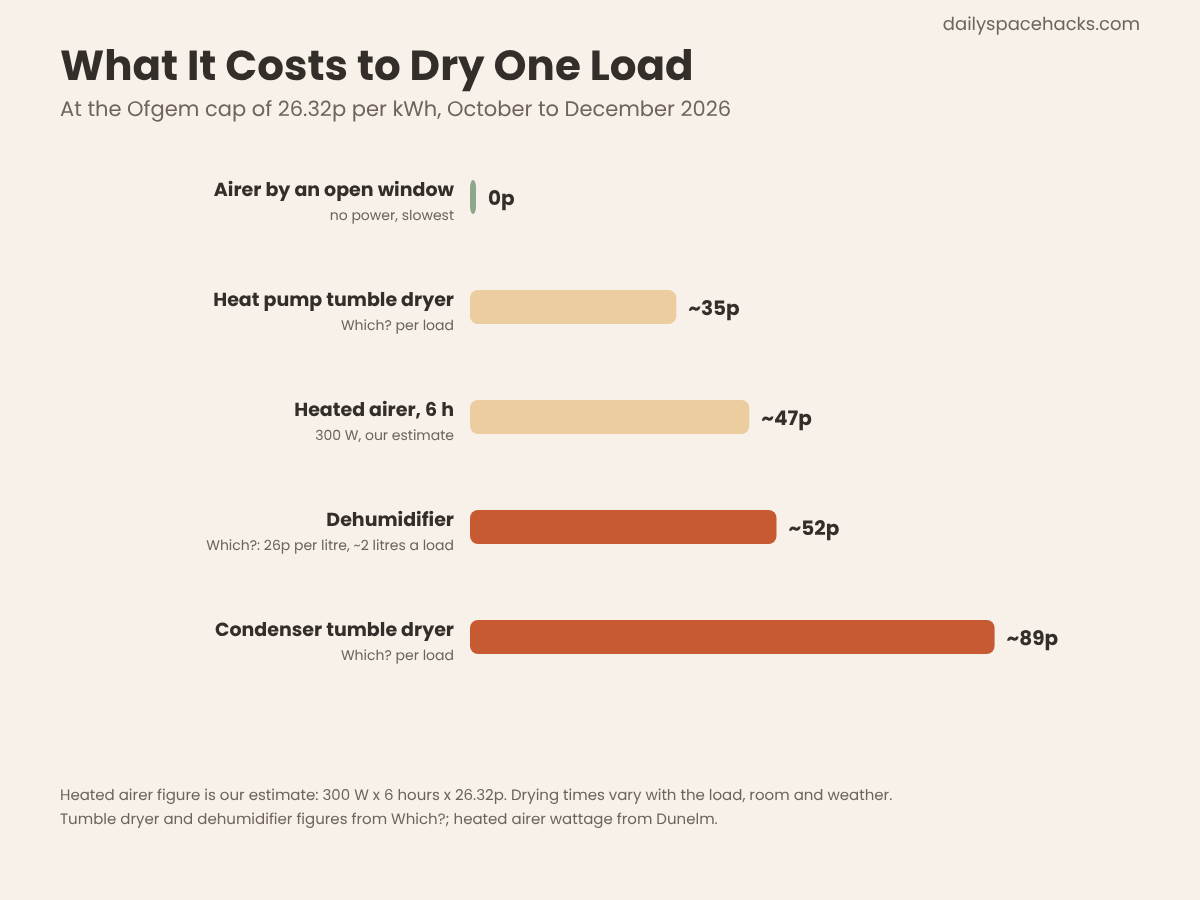
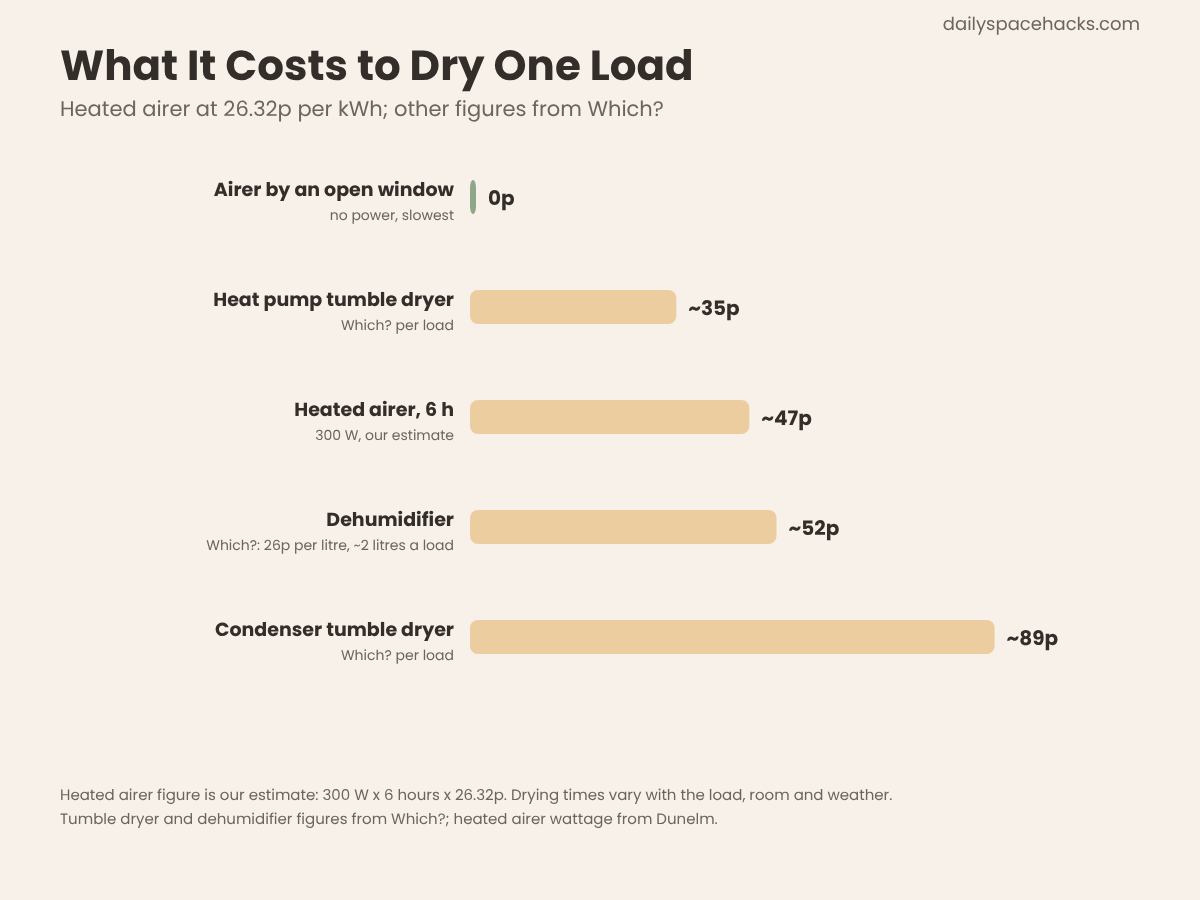
drying: fact-check fixes

Changed region(s): [[0.37, 0.6844, 0.8325, 0.7467], [0.0308, 0.0933, 0.6167, 0.1556], [0.37, 0.56, 0.6475, 0.6222]]

diff --git a/tools/drying/content.html b/tools/drying/content.html
@@ -1,9 +1,9 @@
 <!-- wp:paragraph -->
-<p>To dry clothes indoors without damp, spin them as fast as your machine allows, hang them on an airer in a small room with the door shut and a window slightly open or the extractor fan on, and keep them off the radiators. A dehumidifier or a heated airer speeds things up when the weather is cold and wet. Done this way, a load can dry overnight without fogging up the windows.</p>
+<p>To dry clothes indoors without damp, spin them as fast as your machine allows, hang them on an airer in a small room with the door shut and a window slightly open or the extractor fan on, and keep them off the radiators. A dehumidifier or a heated airer speeds things up when the weather is cold and wet. Done this way, you keep condensation and mould to a minimum.</p>
 <!-- /wp:paragraph -->
 
 <!-- wp:paragraph -->
-<p>The reason it matters is the water. Research from the Mackintosh School of Architecture found that <a href="https://gsamediacentre.co.uk/research-highlights-health-and-economic/" target="_blank" rel="noopener">the average load of washing will release around 2 litres of moisture</a> into your home, and that drying on radiators in a poorly ventilated room can account for up to a third of the moisture in the air. Here is how to keep that water out of your walls.</p>
+<p>The reason it matters is the water. Research from the Mackintosh School of Architecture found that <a href="https://gsamediacentre.co.uk/research-highlights-health-and-economic/" target="_blank" rel="noopener">the average load of washing will release around 2 litres of moisture</a> into your home, and that drying on airers by radiators in a poorly ventilated room can account for up to a third of the moisture in the air. Here is how to keep that water out of your walls.</p>
 <!-- /wp:paragraph -->
 
 <!-- wp:image {"id":0,"sizeSlug":"full","linkDestination":"none"} -->
@@ -15,7 +15,7 @@
 <!-- /wp:heading -->
 
 <!-- wp:paragraph -->
-<p>The less water you start with, the faster clothes dry. Groundwork, an environmental charity, advises you to <a href="https://www.groundwork.org.uk/resources/drying-your-clothes/" target="_blank" rel="noopener">use the highest spin cycle you can</a>. Manufacturer data reported by Whitegoods Help suggests a 6 kg cotton load spun at 1,400 rpm keeps about 49% of its moisture, against about 55% at 1,000 rpm. Check the care labels for delicates, but for towels, sheets and cottons, use the fastest spin.</p>
+<p>The less water you start with, the faster clothes dry. Groundwork, an environmental charity, advises you to <a href="https://www.groundwork.org.uk/resources/drying-your-clothes/" target="_blank" rel="noopener">use the highest spin cycle you can</a>. Manufacturer data reported by Whitegoods Help suggests a 6 kg cotton load spun at 1,400 rpm keeps about 49% of its moisture, against about 55% at 1,000 rpm, though figures vary between machines. Check the care labels for delicates, but for towels, sheets and cottons, use the fastest spin.</p>
 <!-- /wp:paragraph -->
 
 <!-- wp:heading -->
@@ -23,7 +23,7 @@
 <!-- /wp:heading -->
 
 <!-- wp:paragraph -->
-<p>Dry washing in one room and shut the door, so the moist air does not spread through the house. Leeds City Council suggests you <a href="https://leeds.gov.uk/housing/council-housing-information-for-tenants/damp-mould-and-condensation" target="_blank" rel="noopener">leave a window opened slightly and close the door</a>, and Tandridge District Council suggests using an airer in the bathroom with the door closed. A bathroom or utility room with an extractor fan is ideal; Ashfield District Council says to dry clothes with <a href="https://www.ashfield.gov.uk/media/s0jfhksl/a-tenants-guide-to-damp-condensation-and-mould.pdf" target="_blank" rel="noopener">the extractor fan on or window slightly open</a>. Avoid bedrooms, where you breathe the damp air all night. If you have a utility room, our <a href="https://dailyspacehacks.com/small-utility-room-ideas/">small utility room ideas</a> show how to fit a drying rack in.</p>
+<p>Dry washing in one room and shut the door, so the moist air does not spread through the house. Leeds City Council suggests you <a href="https://leeds.gov.uk/housing/council-housing-information-for-tenants/damp-mould-and-condensation" target="_blank" rel="noopener">leave a window opened slightly and close the door</a>, and Tandridge District Council suggests using an airer in the bathroom with the door closed. A bathroom or utility room with an extractor fan is ideal; Ashfield District Council says to dry clothes with <a href="https://www.ashfield.gov.uk/media/s0jfhksl/a-tenants-guide-to-damp-condensation-and-mould.pdf" target="_blank" rel="noopener">the extractor fan on or window slightly open</a>. Avoid drying washing in bedrooms. If you have a utility room, our <a href="https://dailyspacehacks.com/small-utility-room-ideas/">small utility room ideas</a> show how to fit a drying rack in.</p>
 <!-- /wp:paragraph -->
 
 <!-- wp:heading -->
@@ -35,7 +35,7 @@
 <!-- /wp:image -->
 
 <!-- wp:paragraph -->
-<p>It is tempting to drape clothes over a warm radiator, but South Kesteven District Council's advice is simple: <a href="https://www.southkesteven.gov.uk/housing/damp-mould-and-condensation-advice/how-can-i-reduce-damp-and-mould" target="_blank" rel="noopener">do not dry clothes on radiators</a>. Covered radiators heat the room less well, so the heating works harder. Never put clothes on a portable heater either; Shropshire Fire and Rescue warns that <a href="https://www.shropshirefire.gov.uk/news/portable-heaters-fire-warning/" target="_blank" rel="noopener">drying clothes on a portable heater is a fire hazard</a>. A freestanding airer placed near, but not touching, a radiator is a safer middle ground.</p>
+<p>It is tempting to drape clothes over a warm radiator, but South Kesteven District Council's advice is simple: <a href="https://www.southkesteven.gov.uk/housing/damp-mould-and-condensation-advice/how-can-i-reduce-damp-and-mould" target="_blank" rel="noopener">do not dry clothes on radiators</a>. Groundwork says drying clothes on a radiator blocks airflow, so it takes more energy to heat the room. Never put clothes on a portable heater either; Shropshire Fire and Rescue says of portable heaters: <a href="https://www.shropshirefire.gov.uk/news/portable-heaters-fire-warning/" target="_blank" rel="noopener">don't dry clothes on them</a>. Use a freestanding airer instead, and keep it clear of the radiator.</p>
 <!-- /wp:paragraph -->
 
 <!-- wp:heading -->
@@ -63,15 +63,15 @@
 <!-- /wp:image -->
 
 <!-- wp:paragraph -->
-<p>In winter, a little power can make a big difference. A dehumidifier pulls water out of the air as the clothes dry; Which? found it roughly halves drying time and costs on average <a href="https://www.which.co.uk/news/article/can-you-use-a-dehumidifier-to-dry-laundry-aX79m5I0XFVm" target="_blank" rel="noopener">26p per litre of water extracted</a>, so about 52p for a load that releases 2 litres. Many models have a laundry mode, such as Meaco's 12-litre compressor dehumidifier, which uses <a href="https://www.meaco.com/products/meaco-12l-low-energy-dehumidifier-and-air-purifier" target="_blank" rel="noopener">157W</a>. A heated airer is the other option: Dunelm's three-tier model is <a href="https://www.dunelm.com/product/3-tier-heated-airer-1000292620" target="_blank" rel="noopener">300W</a>, so six hours at the Ofgem price cap of <a href="https://ofgem.gov.uk/news/changes-energy-price-cap-between-1-october-and-31-december-2026" target="_blank" rel="noopener">26.32 pence per kilowatt hour</a> costs about 47p by our estimate.</p>
+<p>In cold, damp weather, a small appliance can speed up drying. A dehumidifier pulls water out of the air as the clothes dry; Which? found it almost halved drying time in its test and costs on average <a href="https://www.which.co.uk/news/article/can-you-use-a-dehumidifier-to-dry-laundry-aX79m5I0XFVm" target="_blank" rel="noopener">26p per litre of water extracted</a>, so about 52p for a load that releases 2 litres. Many models have a laundry mode, such as Meaco's 12-litre compressor dehumidifier, which uses <a href="https://www.meaco.com/products/meaco-12l-low-energy-dehumidifier-and-air-purifier" target="_blank" rel="noopener">157W</a>. A heated airer is the other option: Dunelm's three-tier model is <a href="https://www.dunelm.com/product/3-tier-heated-airer-1000292620" target="_blank" rel="noopener">300W</a>, so six hours at the Ofgem price cap of <a href="https://ofgem.gov.uk/news/changes-energy-price-cap-between-1-october-and-31-december-2026" target="_blank" rel="noopener">26.32 pence per kilowatt hour</a> costs about 47p by our estimate.</p>
 <!-- /wp:paragraph -->
 
 <!-- wp:html -->
-<figure class="dsh-diagram"><svg xmlns="http://www.w3.org/2000/svg" viewBox="0 0 1200 900" font-family="Poppins, sans-serif" role="img" aria-labelledby="dr-t dr-d"><title id="dr-t">Cost to dry one load indoors</title><desc id="dr-d">Estimated cost to dry one load of washing indoors at the Ofgem price cap of 26.32p per kWh (October to December 2026). Airer by an open window: about 0p; Heat pump tumble dryer: about 35p; Heated airer, 6 h: about 47p; Dehumidifier: about 52p; Condenser tumble dryer: about 89p. The heated airer cost is our estimate from its wattage and 6 hours; tumble dryer and dehumidifier costs are Which? figures.</desc><rect width="1200" height="900" fill="#F7F1E9"/><text x="60" y="80" font-size="42" font-weight="700" fill="#342E2A">What It Costs to Dry One Load</text><text x="60" y="116" font-size="21" fill="#6E645C">At the Ofgem cap of 26.32p per kWh, October to December 2026</text><text x="1140" y="30" font-size="18" fill="#6E645C" text-anchor="end">dailyspacehacks.com</text><text x="454" y="196" font-size="19" font-weight="700" fill="#342E2A" text-anchor="end">Airer by an open window</text><text x="454" y="220" font-size="14" fill="#6E645C" text-anchor="end">no power, slowest</text><rect x="470" y="180" width="6.0" height="34" rx="8" fill="#8FA689"/><text x="488.0" y="205" font-size="20" font-weight="700" fill="#342E2A">0p</text><text x="454" y="306" font-size="19" font-weight="700" fill="#342E2A" text-anchor="end">Heat pump tumble dryer</text><text x="454" y="330" font-size="14" fill="#6E645C" text-anchor="end">Which? per load</text><rect x="470" y="290" width="206.3" height="34" rx="8" fill="#ECCDA0"/><text x="688.3" y="315" font-size="20" font-weight="700" fill="#342E2A">~35p</text><text x="454" y="416" font-size="19" font-weight="700" fill="#342E2A" text-anchor="end">Heated airer, 6 h</text><text x="454" y="440" font-size="14" fill="#6E645C" text-anchor="end">300 W, our estimate</text><rect x="470" y="400" width="279.3" height="34" rx="8" fill="#ECCDA0"/><text x="761.3" y="425" font-size="20" font-weight="700" fill="#342E2A">~47p</text><text x="454" y="526" font-size="19" font-weight="700" fill="#342E2A" text-anchor="end">Dehumidifier</text><text x="454" y="550" font-size="14" fill="#6E645C" text-anchor="end">Which?: 26p per litre, ~2 litres a load</text><rect x="470" y="510" width="306.5" height="34" rx="8" fill="#C85A32"/><text x="788.5" y="535" font-size="20" font-weight="700" fill="#342E2A">~52p</text><text x="454" y="636" font-size="19" font-weight="700" fill="#342E2A" text-anchor="end">Condenser tumble dryer</text><text x="454" y="660" font-size="14" fill="#6E645C" text-anchor="end">Which? per load</text><rect x="470" y="620" width="524.6" height="34" rx="8" fill="#C85A32"/><text x="1006.6" y="645" font-size="20" font-weight="700" fill="#342E2A">~89p</text><text x="60" y="800" font-size="15" fill="#6E645C">Heated airer figure is our estimate: 300 W x 6 hours x 26.32p. Drying times vary with the load, room and weather.</text><text x="60" y="824" font-size="15" fill="#6E645C">Tumble dryer and dehumidifier figures from Which?; heated airer wattage from Dunelm.</text></svg><figcaption>Estimated cost to dry one load indoors at 26.32p per kWh: from nothing on an airer by an open window to about 89p in a condenser tumble dryer.</figcaption></figure>
+<figure class="dsh-diagram"><svg xmlns="http://www.w3.org/2000/svg" viewBox="0 0 1200 900" font-family="Poppins, sans-serif" role="img" aria-labelledby="dr-t dr-d"><title id="dr-t">Cost to dry one load indoors</title><desc id="dr-d">Estimated cost to dry one load of washing indoors. Airer by an open window: about 0p; Heat pump tumble dryer: about 35p; Heated airer, 6 h: about 47p; Dehumidifier: about 52p; Condenser tumble dryer: about 89p. The heated airer cost is our estimate from its wattage and 6 hours; tumble dryer and dehumidifier costs are Which? figures.</desc><rect width="1200" height="900" fill="#F7F1E9"/><text x="60" y="80" font-size="42" font-weight="700" fill="#342E2A">What It Costs to Dry One Load</text><text x="60" y="116" font-size="21" fill="#6E645C">Heated airer at 26.32p per kWh; other figures from Which?</text><text x="1140" y="30" font-size="18" fill="#6E645C" text-anchor="end">dailyspacehacks.com</text><text x="454" y="196" font-size="19" font-weight="700" fill="#342E2A" text-anchor="end">Airer by an open window</text><text x="454" y="220" font-size="14" fill="#6E645C" text-anchor="end">no power, slowest</text><rect x="470" y="180" width="6.0" height="34" rx="8" fill="#8FA689"/><text x="488.0" y="205" font-size="20" font-weight="700" fill="#342E2A">0p</text><text x="454" y="306" font-size="19" font-weight="700" fill="#342E2A" text-anchor="end">Heat pump tumble dryer</text><text x="454" y="330" font-size="14" fill="#6E645C" text-anchor="end">Which? per load</text><rect x="470" y="290" width="206.3" height="34" rx="8" fill="#ECCDA0"/><text x="688.3" y="315" font-size="20" font-weight="700" fill="#342E2A">~35p</text><text x="454" y="416" font-size="19" font-weight="700" fill="#342E2A" text-anchor="end">Heated airer, 6 h</text><text x="454" y="440" font-size="14" fill="#6E645C" text-anchor="end">300 W, our estimate</text><rect x="470" y="400" width="279.3" height="34" rx="8" fill="#ECCDA0"/><text x="761.3" y="425" font-size="20" font-weight="700" fill="#342E2A">~47p</text><text x="454" y="526" font-size="19" font-weight="700" fill="#342E2A" text-anchor="end">Dehumidifier</text><text x="454" y="550" font-size="14" fill="#6E645C" text-anchor="end">Which?: 26p per litre, ~2 litres a load</text><rect x="470" y="510" width="306.5" height="34" rx="8" fill="#ECCDA0"/><text x="788.5" y="535" font-size="20" font-weight="700" fill="#342E2A">~52p</text><text x="454" y="636" font-size="19" font-weight="700" fill="#342E2A" text-anchor="end">Condenser tumble dryer</text><text x="454" y="660" font-size="14" fill="#6E645C" text-anchor="end">Which? per load</text><rect x="470" y="620" width="524.6" height="34" rx="8" fill="#ECCDA0"/><text x="1006.6" y="645" font-size="20" font-weight="700" fill="#342E2A">~89p</text><text x="60" y="800" font-size="15" fill="#6E645C">Heated airer figure is our estimate: 300 W x 6 hours x 26.32p. Drying times vary with the load, room and weather.</text><text x="60" y="824" font-size="15" fill="#6E645C">Tumble dryer and dehumidifier figures from Which?; heated airer wattage from Dunelm.</text></svg><figcaption>Estimated cost to dry one load indoors: from nothing on an airer by an open window to about 89p in a condenser tumble dryer.</figcaption></figure>
 <!-- /wp:html -->
 
 <!-- wp:paragraph -->
-<p>As the chart shows, a heat pump tumble dryer is cheaper per load than either. Which? says a dehumidifier <a href="https://www.which.co.uk/news/article/can-you-use-a-dehumidifier-to-dry-laundry-aX79m5I0XFVm" target="_blank" rel="noopener">would still cost more and take longer</a> than the cheapest tumble dryers. If you are choosing a dryer, our <a href="https://dailyspacehacks.com/heat-pump-vs-condenser-dryer/">heat pump vs condenser dryer guide</a> compares running costs.</p>
+<p>As the chart shows, a heat pump tumble dryer, at about 35p a load according to Which?, is cheaper than either the heated airer or the dehumidifier. Which? says a dehumidifier <a href="https://www.which.co.uk/news/article/can-you-use-a-dehumidifier-to-dry-laundry-aX79m5I0XFVm" target="_blank" rel="noopener">would still cost more and take longer</a> than the cheapest tumble dryers. If you are choosing a dryer, our <a href="https://dailyspacehacks.com/heat-pump-vs-condenser-dryer/">heat pump vs condenser dryer guide</a> compares running costs.</p>
 <!-- /wp:paragraph -->
 
 <!-- wp:heading -->
@@ -87,7 +87,7 @@
 <!-- /wp:heading -->
 
 <!-- wp:paragraph -->
-<p>Damp caused by a building fault is your landlord's job to fix, but tenants are expected to ventilate. In England, Awaab's Law has set deadlines for social landlords to deal with damp and mould since October 2025, though Elmbridge Borough Council notes it <a href="https://www.elmbridge.gov.uk/housing/damp-condensation-and-mould/awaabs-law-guidance-tenants" target="_blank" rel="noopener">only applies to social housing tenants</a>, not private renters. Keep a record of any damp, and report it in writing.</p>
+<p>Damp caused by a building fault is your landlord's job to fix, and ventilating well helps prevent condensation. In England, Awaab's Law has set deadlines for social landlords to deal with damp and mould since October 2025, though Elmbridge Borough Council notes it <a href="https://www.elmbridge.gov.uk/housing/damp-condensation-and-mould/awaabs-law-guidance-tenants" target="_blank" rel="noopener">only applies to social housing tenants</a>, not private renters. Keep a record of any damp, and report it in writing.</p>
 <!-- /wp:paragraph -->
 
 <!-- wp:heading -->
@@ -115,7 +115,7 @@
 <!-- /wp:heading -->
 
 <!-- wp:paragraph -->
-<p>It is best not to. Councils advise against it because it adds moisture to the room and stops the radiator heating the room properly. Use an airer near the radiator instead, and never put clothes on a portable heater, which fire services warn is a fire hazard.</p>
+<p>It is best not to. Councils advise against it, and Groundwork says it blocks the heat, so heating the room takes more energy. Use an airer near the radiator instead, and never put clothes on a portable heater, which Shropshire Fire and Rescue warns against.</p>
 <!-- /wp:paragraph -->
 
 <!-- wp:paragraph {"className":"dsh-ai-note","fontSize":"small"} -->

diff --git a/tools/drying/build.py b/tools/drying/build.py
@@ -24,19 +24,19 @@ def SR(k,t): return ext(SRC[k],t)
 P=26.32
 airer=round(0.3*6*P)
 
-p(f"To dry clothes indoors without damp, spin them as fast as your machine allows, hang them on an airer in a small room with the door shut and a window slightly open or the extractor fan on, and keep them off the radiators. A dehumidifier or a heated airer speeds things up when the weather is cold and wet. Done this way, a load can dry overnight without fogging up the windows.")
-p(f"The reason it matters is the water. Research from the Mackintosh School of Architecture found that {SR('gsa1','the average load of washing will release around 2 litres of moisture')} into your home, and that drying on radiators in a poorly ventilated room can account for up to a third of the moisture in the air. Here is how to keep that water out of your walls.")
+p(f"To dry clothes indoors without damp, spin them as fast as your machine allows, hang them on an airer in a small room with the door shut and a window slightly open or the extractor fan on, and keep them off the radiators. A dehumidifier or a heated airer speeds things up when the weather is cold and wet. Done this way, you keep condensation and mould to a minimum.")
+p(f"The reason it matters is the water. Research from the Mackintosh School of Architecture found that {SR('gsa1','the average load of washing will release around 2 litres of moisture')} into your home, and that drying on airers by radiators in a poorly ventilated room can account for up to a third of the moisture in the air. Here is how to keep that water out of your walls.")
 img(1)
 
 h2("Step 1: Spin It Fast")
-p(f"The less water you start with, the faster clothes dry. Groundwork, an environmental charity, advises you to {SR('gw','use the highest spin cycle you can')}. Manufacturer data reported by Whitegoods Help suggests a 6 kg cotton load spun at 1,400 rpm keeps about 49% of its moisture, against about 55% at 1,000 rpm. Check the care labels for delicates, but for towels, sheets and cottons, use the fastest spin.")
+p(f"The less water you start with, the faster clothes dry. Groundwork, an environmental charity, advises you to {SR('gw','use the highest spin cycle you can')}. Manufacturer data reported by Whitegoods Help suggests a 6 kg cotton load spun at 1,400 rpm keeps about 49% of its moisture, against about 55% at 1,000 rpm, though figures vary between machines. Check the care labels for delicates, but for towels, sheets and cottons, use the fastest spin.")
 
 h2("Step 2: Pick the Right Room")
-p(f"Dry washing in one room and shut the door, so the moist air does not spread through the house. Leeds City Council suggests you {SR('leeds','leave a window opened slightly and close the door')}, and Tandridge District Council suggests using an airer in the bathroom with the door closed. A bathroom or utility room with an extractor fan is ideal; Ashfield District Council says to dry clothes with {SR('ash','the extractor fan on or window slightly open')}. Avoid bedrooms, where you breathe the damp air all night. If you have a utility room, our {a('small-utility-room-ideas','small utility room ideas')} show how to fit a drying rack in.")
+p(f"Dry washing in one room and shut the door, so the moist air does not spread through the house. Leeds City Council suggests you {SR('leeds','leave a window opened slightly and close the door')}, and Tandridge District Council suggests using an airer in the bathroom with the door closed. A bathroom or utility room with an extractor fan is ideal; Ashfield District Council says to dry clothes with {SR('ash','the extractor fan on or window slightly open')}. Avoid drying washing in bedrooms. If you have a utility room, our {a('small-utility-room-ideas','small utility room ideas')} show how to fit a drying rack in.")
 
 h2("Step 3: Use an Airer, Not the Radiator")
 img(2)
-p(f"It is tempting to drape clothes over a warm radiator, but South Kesteven District Council's advice is simple: {SR('skdc','do not dry clothes on radiators')}. Covered radiators heat the room less well, so the heating works harder. Never put clothes on a portable heater either; Shropshire Fire and Rescue warns that {SR('shrop','drying clothes on a portable heater is a fire hazard')}. A freestanding airer placed near, but not touching, a radiator is a safer middle ground.")
+p(f"It is tempting to drape clothes over a warm radiator, but South Kesteven District Council's advice is simple: {SR('skdc','do not dry clothes on radiators')}. Groundwork says drying clothes on a radiator blocks airflow, so it takes more energy to heat the room. Never put clothes on a portable heater either; Shropshire Fire and Rescue says of portable heaters: {SR('shrop','don\'t dry clothes on them')}. Use a freestanding airer instead, and keep it clear of the radiator.")
 
 h2("Step 4: Give Clothes Space")
 p(f"Air needs to move around each item. Hang shirts and dresses on hangers from the airer's top rail, fold towels over a single bar rather than double, and leave a gap between items. If floor space is tight, a ceiling pulley airer lifts the washing out of the way; Lakeland's Lofti model gives {SR('lofti','up to 6.7 metres of drying room')}. Our {a('airing-cupboard-shelves','airing cupboard shelves')} guide covers finishing items off in a warm cupboard.")
@@ -46,15 +46,15 @@ p(f"Ventilation is what stops the moisture settling as condensation. NHS Healthi
 
 h2("Step 6: Speed It Up When It Is Cold")
 img(3)
-p(f"In winter, a little power can make a big difference. A dehumidifier pulls water out of the air as the clothes dry; Which? found it roughly halves drying time and costs on average {SR('which','26p per litre of water extracted')}, so about 52p for a load that releases 2 litres. Many models have a laundry mode, such as Meaco's 12-litre compressor dehumidifier, which uses {SR('meaco','157W')}. A heated airer is the other option: Dunelm's three-tier model is {SR('dun','300W')}, so six hours at the Ofgem price cap of {SR('ofgem','26.32 pence per kilowatt hour')} costs about {airer}p by our estimate.")
-diagram(open('z.svg').read(),f"Estimated cost to dry one load indoors at 26.32p per kWh: from nothing on an airer by an open window to about 89p in a condenser tumble dryer.")
-p(f"As the chart shows, a heat pump tumble dryer is cheaper per load than either. Which? says a dehumidifier {SR('which','would still cost more and take longer')} than the cheapest tumble dryers. If you are choosing a dryer, our {a('heat-pump-vs-condenser-dryer','heat pump vs condenser dryer guide')} compares running costs.")
+p(f"In cold, damp weather, a small appliance can speed up drying. A dehumidifier pulls water out of the air as the clothes dry; Which? found it almost halved drying time in its test and costs on average {SR('which','26p per litre of water extracted')}, so about 52p for a load that releases 2 litres. Many models have a laundry mode, such as Meaco's 12-litre compressor dehumidifier, which uses {SR('meaco','157W')}. A heated airer is the other option: Dunelm's three-tier model is {SR('dun','300W')}, so six hours at the Ofgem price cap of {SR('ofgem','26.32 pence per kilowatt hour')} costs about {airer}p by our estimate.")
+diagram(open('z.svg').read(),f"Estimated cost to dry one load indoors: from nothing on an airer by an open window to about 89p in a condenser tumble dryer.")
+p(f"As the chart shows, a heat pump tumble dryer, at about 35p a load according to Which?, is cheaper than either the heated airer or the dehumidifier. Which? says a dehumidifier {SR('which','would still cost more and take longer')} than the cheapest tumble dryers. If you are choosing a dryer, our {a('heat-pump-vs-condenser-dryer','heat pump vs condenser dryer guide')} compares running costs.")
 
 h2("Step 7: Check the Humidity")
 p(f"A cheap digital hygrometer shows whether your drying routine is working. Dorset Council says indoor humidity is {SR('dorset','normally around 40-55%')}, and that the risk of condensation rises above 60%. If the reading stays high while washing is drying, open the window wider, run the fan longer or move the airer to a smaller room.")
 
 h2("If You Rent")
-p(f"Damp caused by a building fault is your landlord's job to fix, but tenants are expected to ventilate. In England, Awaab's Law has set deadlines for social landlords to deal with damp and mould since October 2025, though Elmbridge Borough Council notes it {SR('elm','only applies to social housing tenants')}, not private renters. Keep a record of any damp, and report it in writing.")
+p(f"Damp caused by a building fault is your landlord's job to fix, and ventilating well helps prevent condensation. In England, Awaab's Law has set deadlines for social landlords to deal with damp and mould since October 2025, though Elmbridge Borough Council notes it {SR('elm','only applies to social housing tenants')}, not private renters. Keep a record of any damp, and report it in writing.")
 
 h2("Drying Clothes Indoors: Quick Answers")
 h3("Is it bad to dry clothes indoors?")
@@ -62,7 +62,7 @@ p("Not if you control the moisture. A load releases about 2 litres of water, so 
 h3("What is the cheapest way to dry clothes indoors?")
 p(f"An ordinary airer near an open window costs nothing to run but is slow in winter. If you need speed, a heat pump tumble dryer costs about 35p a load according to Which?, less than a heated airer used for six hours (about {airer}p by our estimate) or a dehumidifier (about 52p).")
 h3("Can I dry clothes on a radiator?")
-p("It is best not to. Councils advise against it because it adds moisture to the room and stops the radiator heating the room properly. Use an airer near the radiator instead, and never put clothes on a portable heater, which fire services warn is a fire hazard.")
+p("It is best not to. Councils advise against it, and Groundwork says it blocks the heat, so heating the room takes more energy. Use an airer near the radiator instead, and never put clothes on a portable heater, which Shropshire Fire and Rescue warns against.")
 ai_note()
 html='\n\n'.join(out)
 html=re.sub(r'(\d+\.\d{2})\d+',r'\1',html)

diff --git a/tools/drying/svg.py b/tools/drying/svg.py
@@ -6,18 +6,18 @@ rows=[('Airer by an open window',0,'0p','no power, slowest'),
 ('Dehumidifier',26*2,'~52p','Which?: 26p per litre, ~2 litres a load'),
 ('Condenser tumble dryer',89,'~89p','Which? per load')]
 s=[];a=s.append
-desc=("Estimated cost to dry one load of washing indoors at the Ofgem price cap of 26.32p per kWh (October to December 2026). "
+desc=("Estimated cost to dry one load of washing indoors. "
 +"; ".join(f"{r[0]}: about {round(r[1])}p" for r in rows)
 +". The heated airer cost is our estimate from its wattage and 6 hours; tumble dryer and dehumidifier costs are Which? figures.")
 a(f'<svg xmlns="http://www.w3.org/2000/svg" viewBox="0 0 1200 900" font-family="Poppins, sans-serif" role="img" aria-labelledby="dr-t dr-d"><title id="dr-t">Cost to dry one load indoors</title><desc id="dr-d">{desc}</desc>')
 a(f'<rect width="1200" height="900" fill="{BG}"/>')
 a(f'<text x="60" y="80" font-size="42" font-weight="700" fill="{T}">What It Costs to Dry One Load</text>')
-a(f'<text x="60" y="116" font-size="21" fill="{G}">At the Ofgem cap of 26.32p per kWh, October to December 2026</text>')
+a(f'<text x="60" y="116" font-size="21" fill="{G}">Heated airer at 26.32p per kWh; other figures from Which?</text>')
 a(f'<text x="1140" y="30" font-size="18" fill="{G}" text-anchor="end">dailyspacehacks.com</text>')
 BX=470; BW=560; MX=95; y=170
 for name,c,lab,note in rows:
     lab=lab or f'~{round(c)}p'
-    col=SG if c<20 else (SA if c<50 else A)
+    col=SG if c==0 else SA
     a(f'<text x="{BX-16}" y="{y+26}" font-size="19" font-weight="700" fill="{T}" text-anchor="end">{name}</text>')
     a(f'<text x="{BX-16}" y="{y+50}" font-size="14" fill="{G}" text-anchor="end">{note}</text>')
     w=max(BW*c/MX,6)
